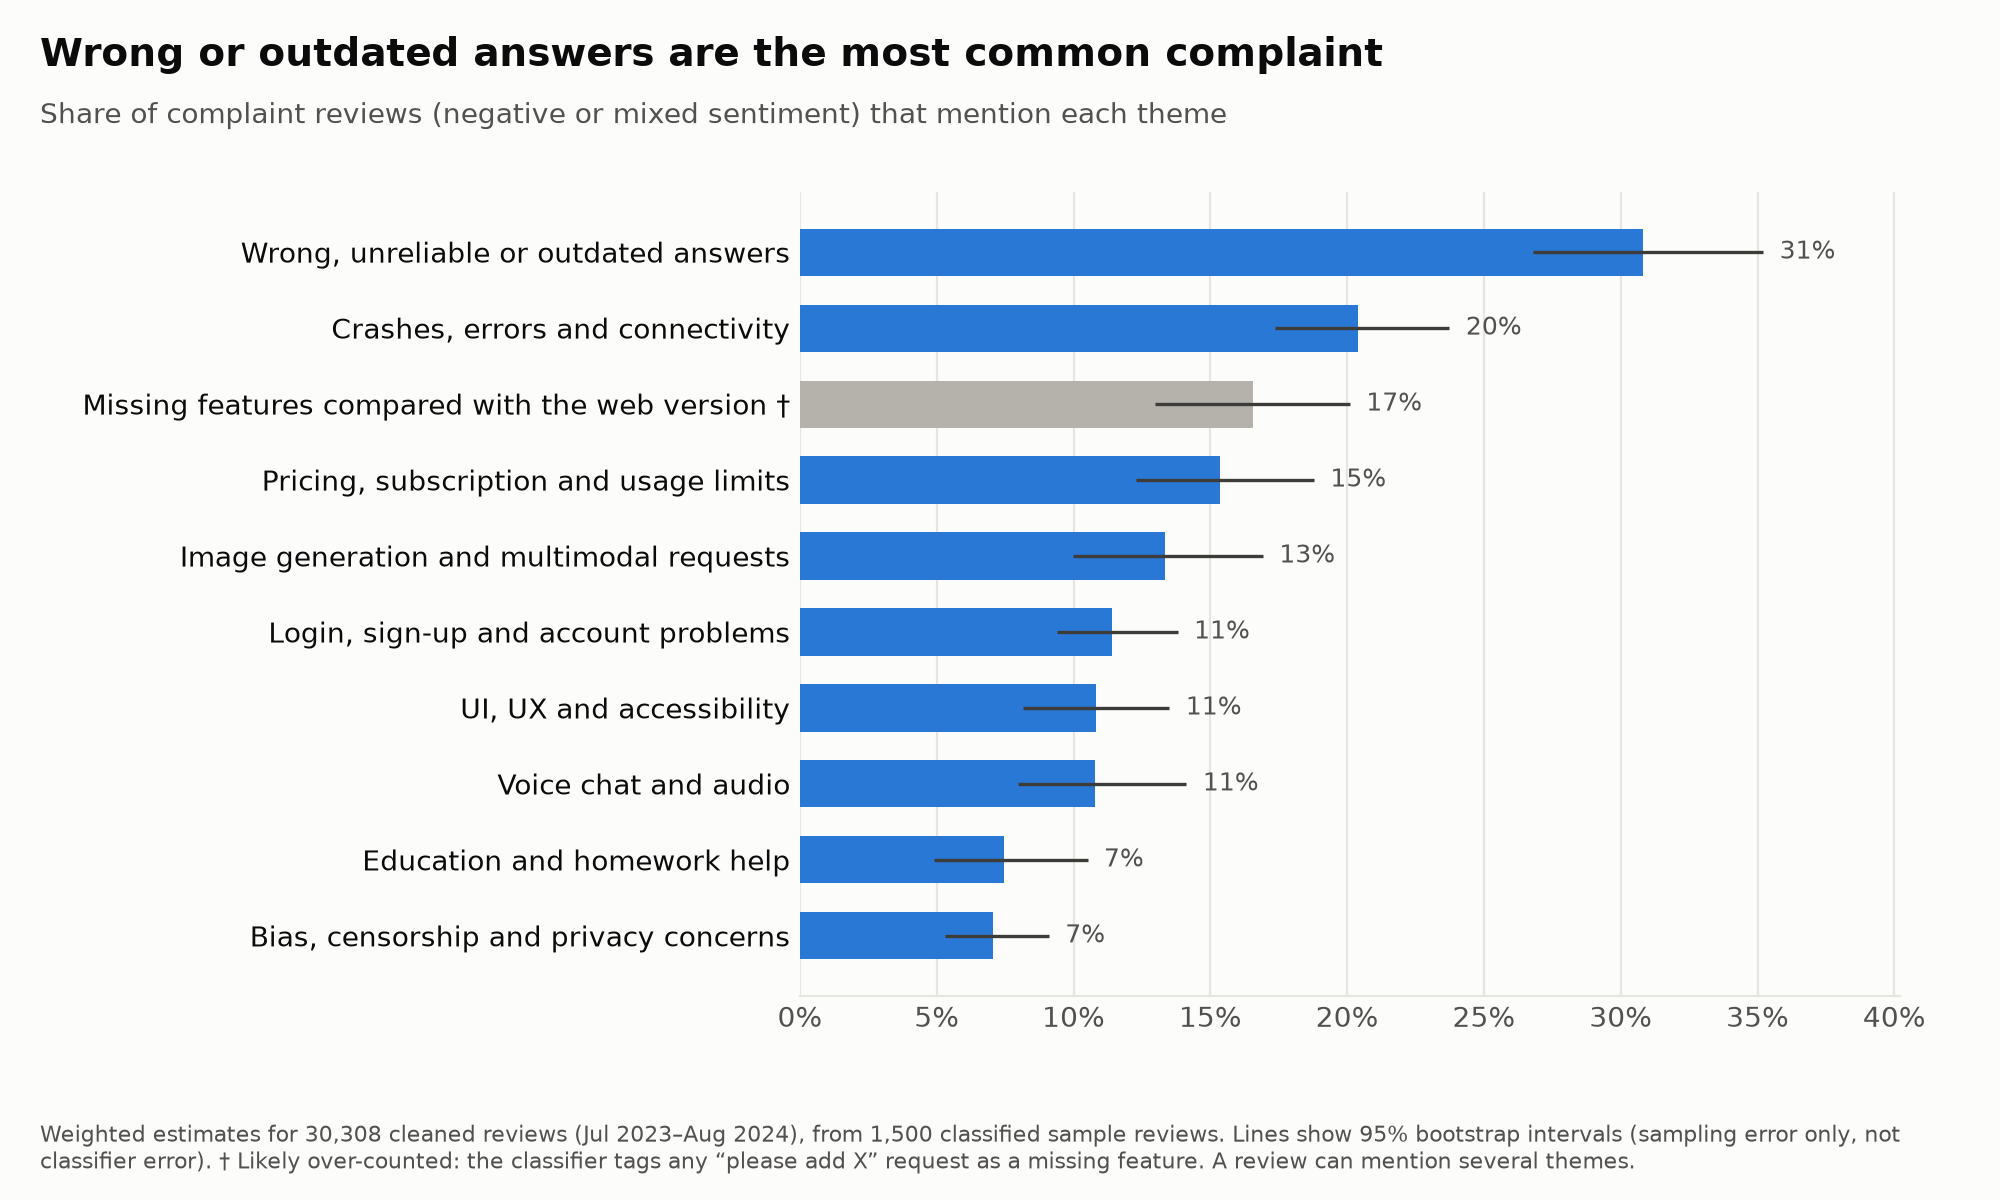
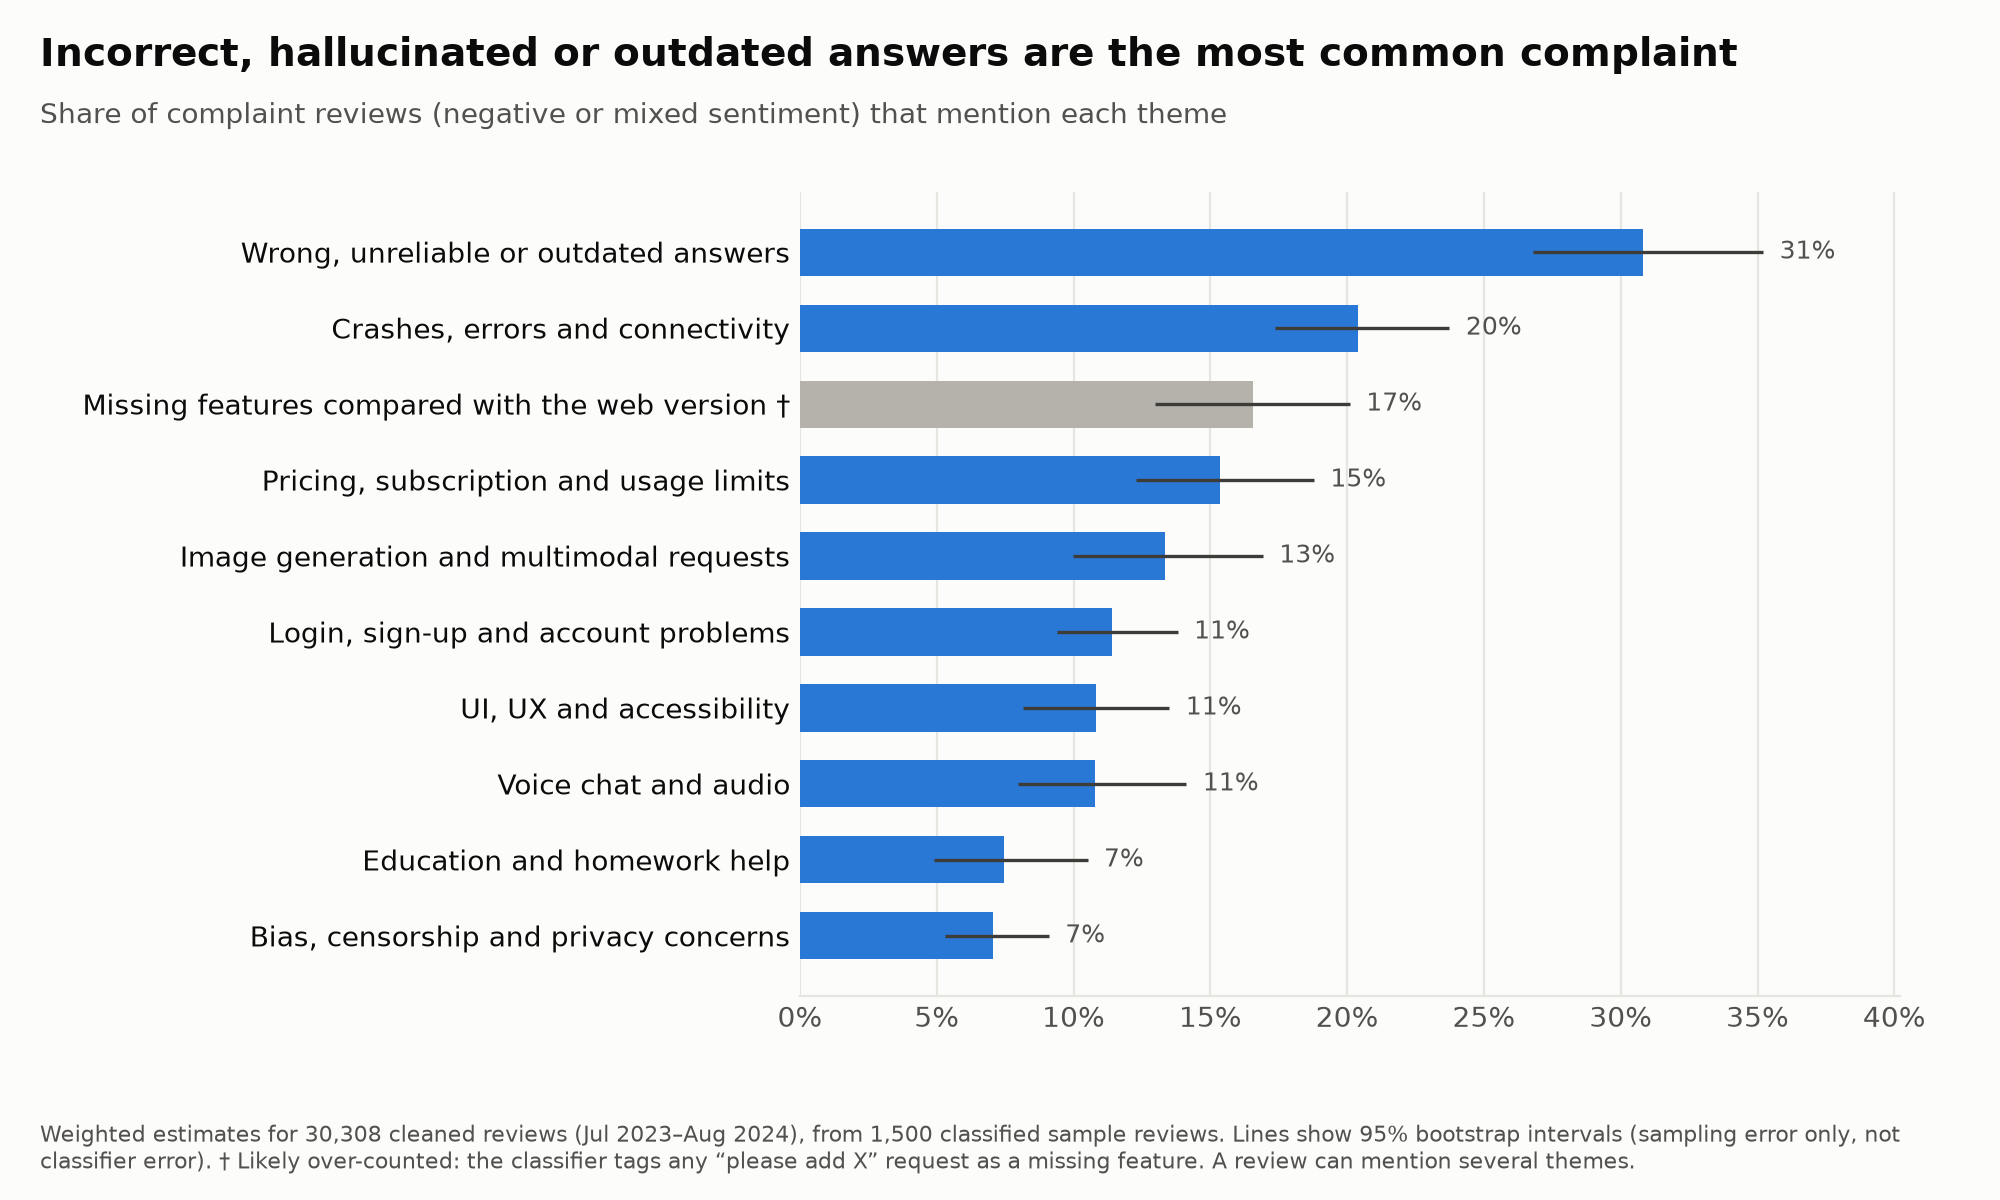
Update chart title

Changed region(s): [[0.0, 0.0308, 0.868, 0.0617]]

diff --git a/make_charts.py b/make_charts.py
@@ -94,7 +94,7 @@ def complaint_ranking(metrics, names):
 
     ax.set_yticks(list(y), labels)
     style_axes(ax, max(r["hi"] for r in rows) + 0.05)
-    add_title(fig, "Wrong or outdated answers are the most common complaint",
+    add_title(fig, "Incorrect, hallucinated or outdated answers are the most common complaint",
               "Share of complaint reviews (negative or mixed sentiment) that mention each theme")
     add_footer(fig, "† Likely over-counted: the classifier tags any “please add X” request as a "
                     "missing feature. A review can mention several themes.")
